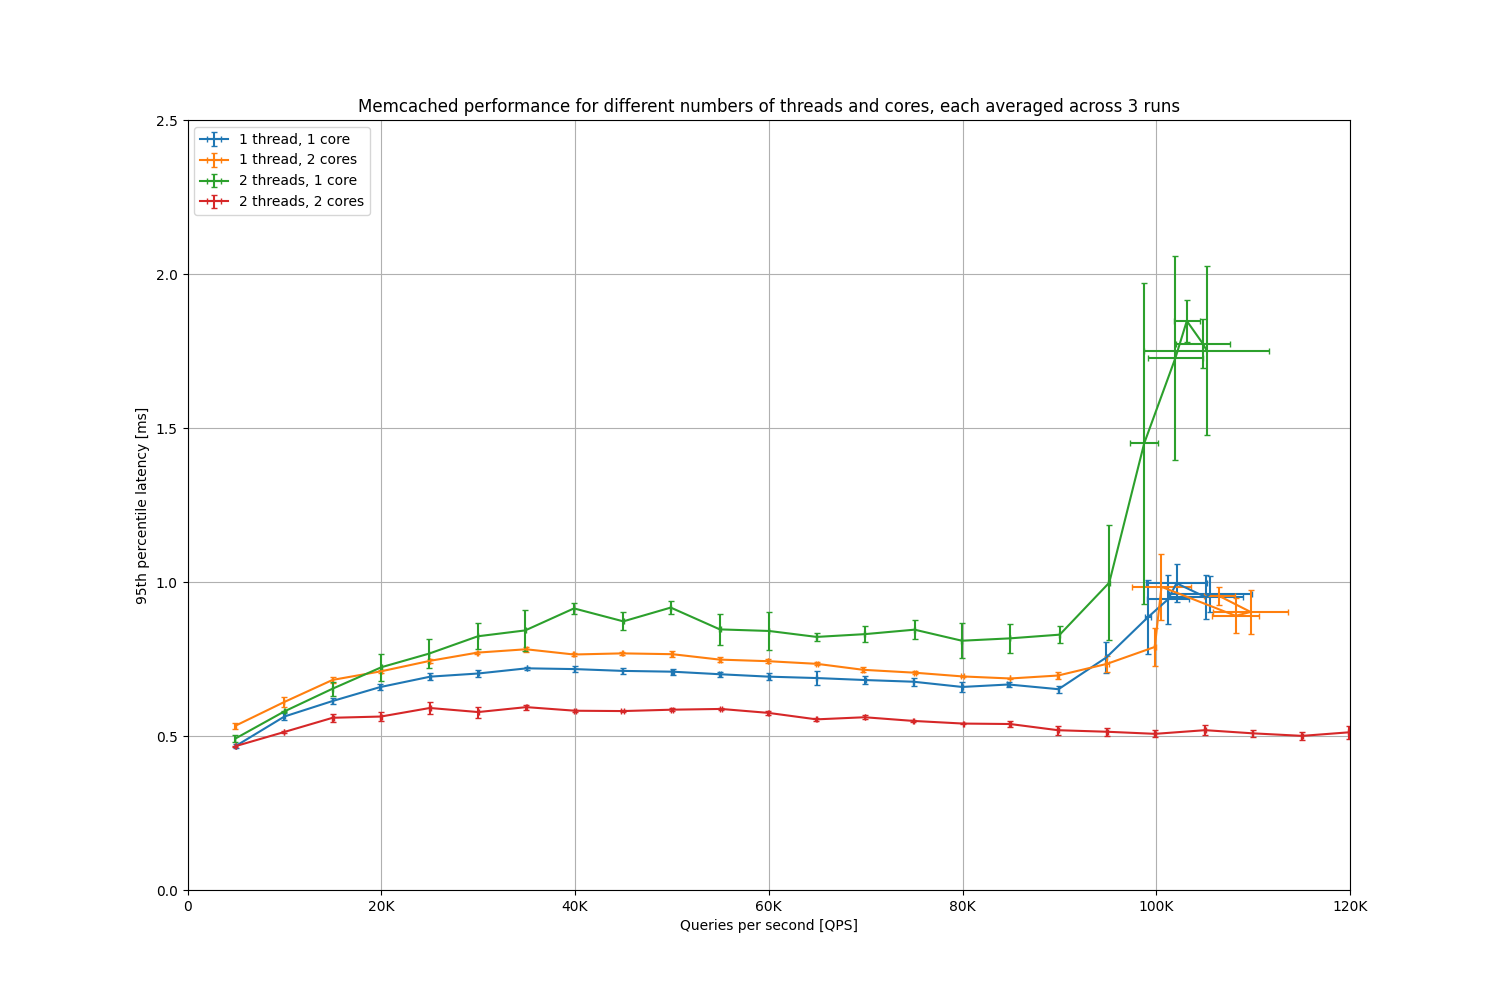
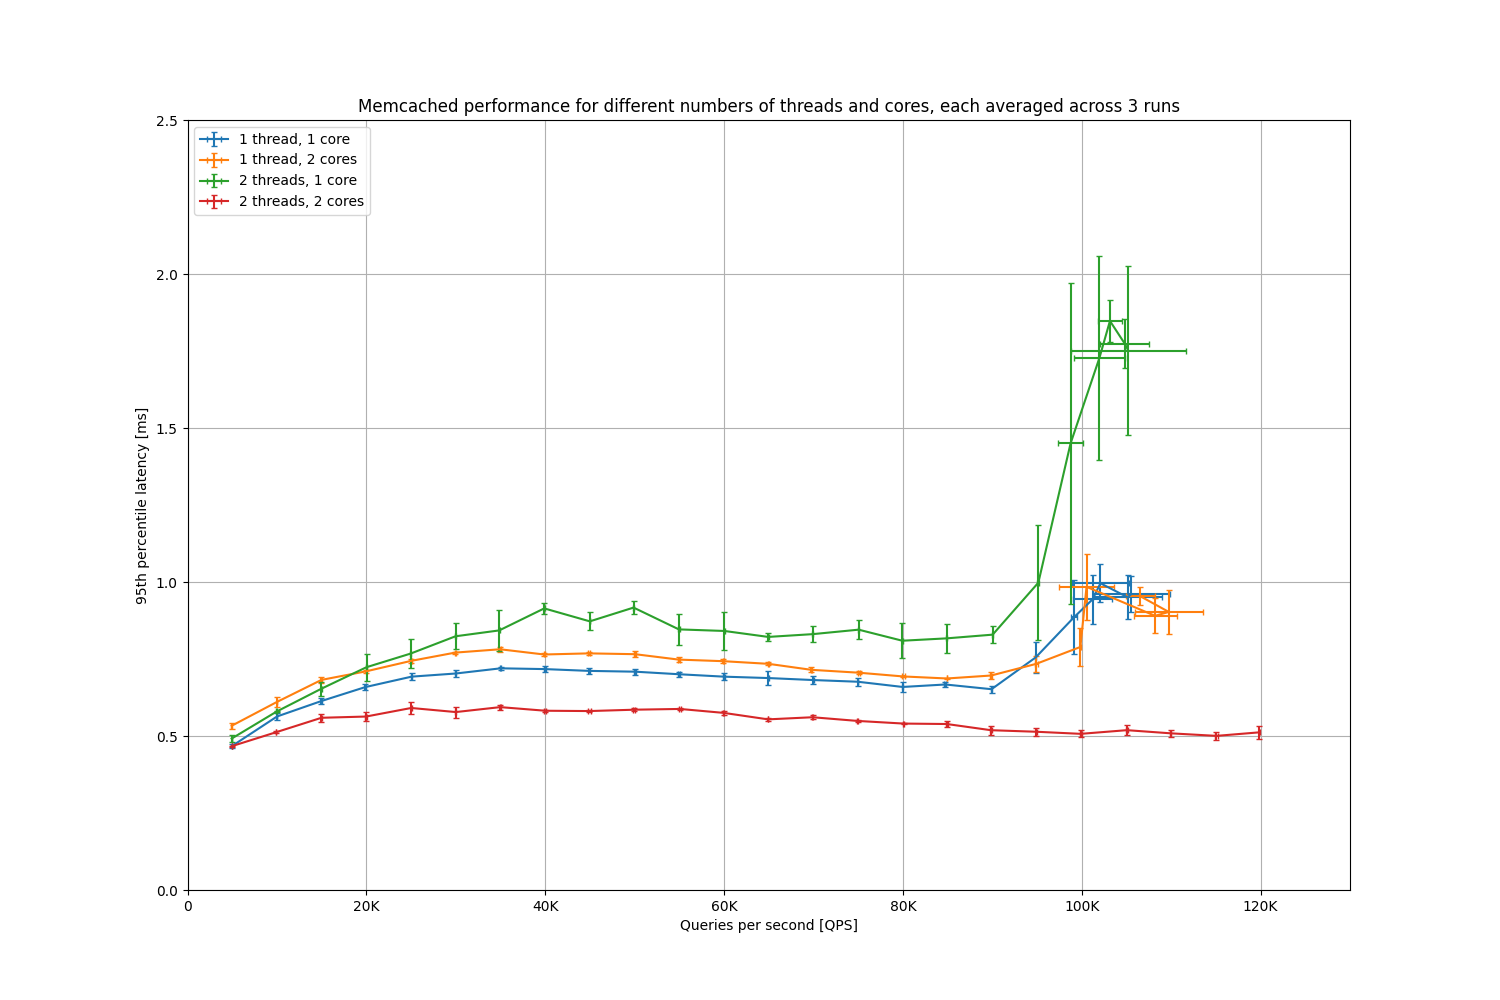
plot more beautiful

diff --git a/part4/main.py b/part4/main.py
@@ -95,7 +95,7 @@ plt.errorbar(x1[3], y1[3], xerr=x1_err[3], yerr=y1_err[3], label="2 threads, 2 c
 
 plt.xlabel("Queries per second [QPS]")
 plt.ylabel("95th percentile latency [ms]")
-plt.xlim(0, 120000)
+plt.xlim(0, 130000)
 plt.xticks([0, 20000, 40000, 60000, 80000, 100000, 120000], ['0', '20K', '40K', '60K', '80K', '100K', '120K'])
 plt.ylim(0, 2.5)
 plt.title("Memcached performance for different numbers of threads and cores, each averaged across 3 runs")
